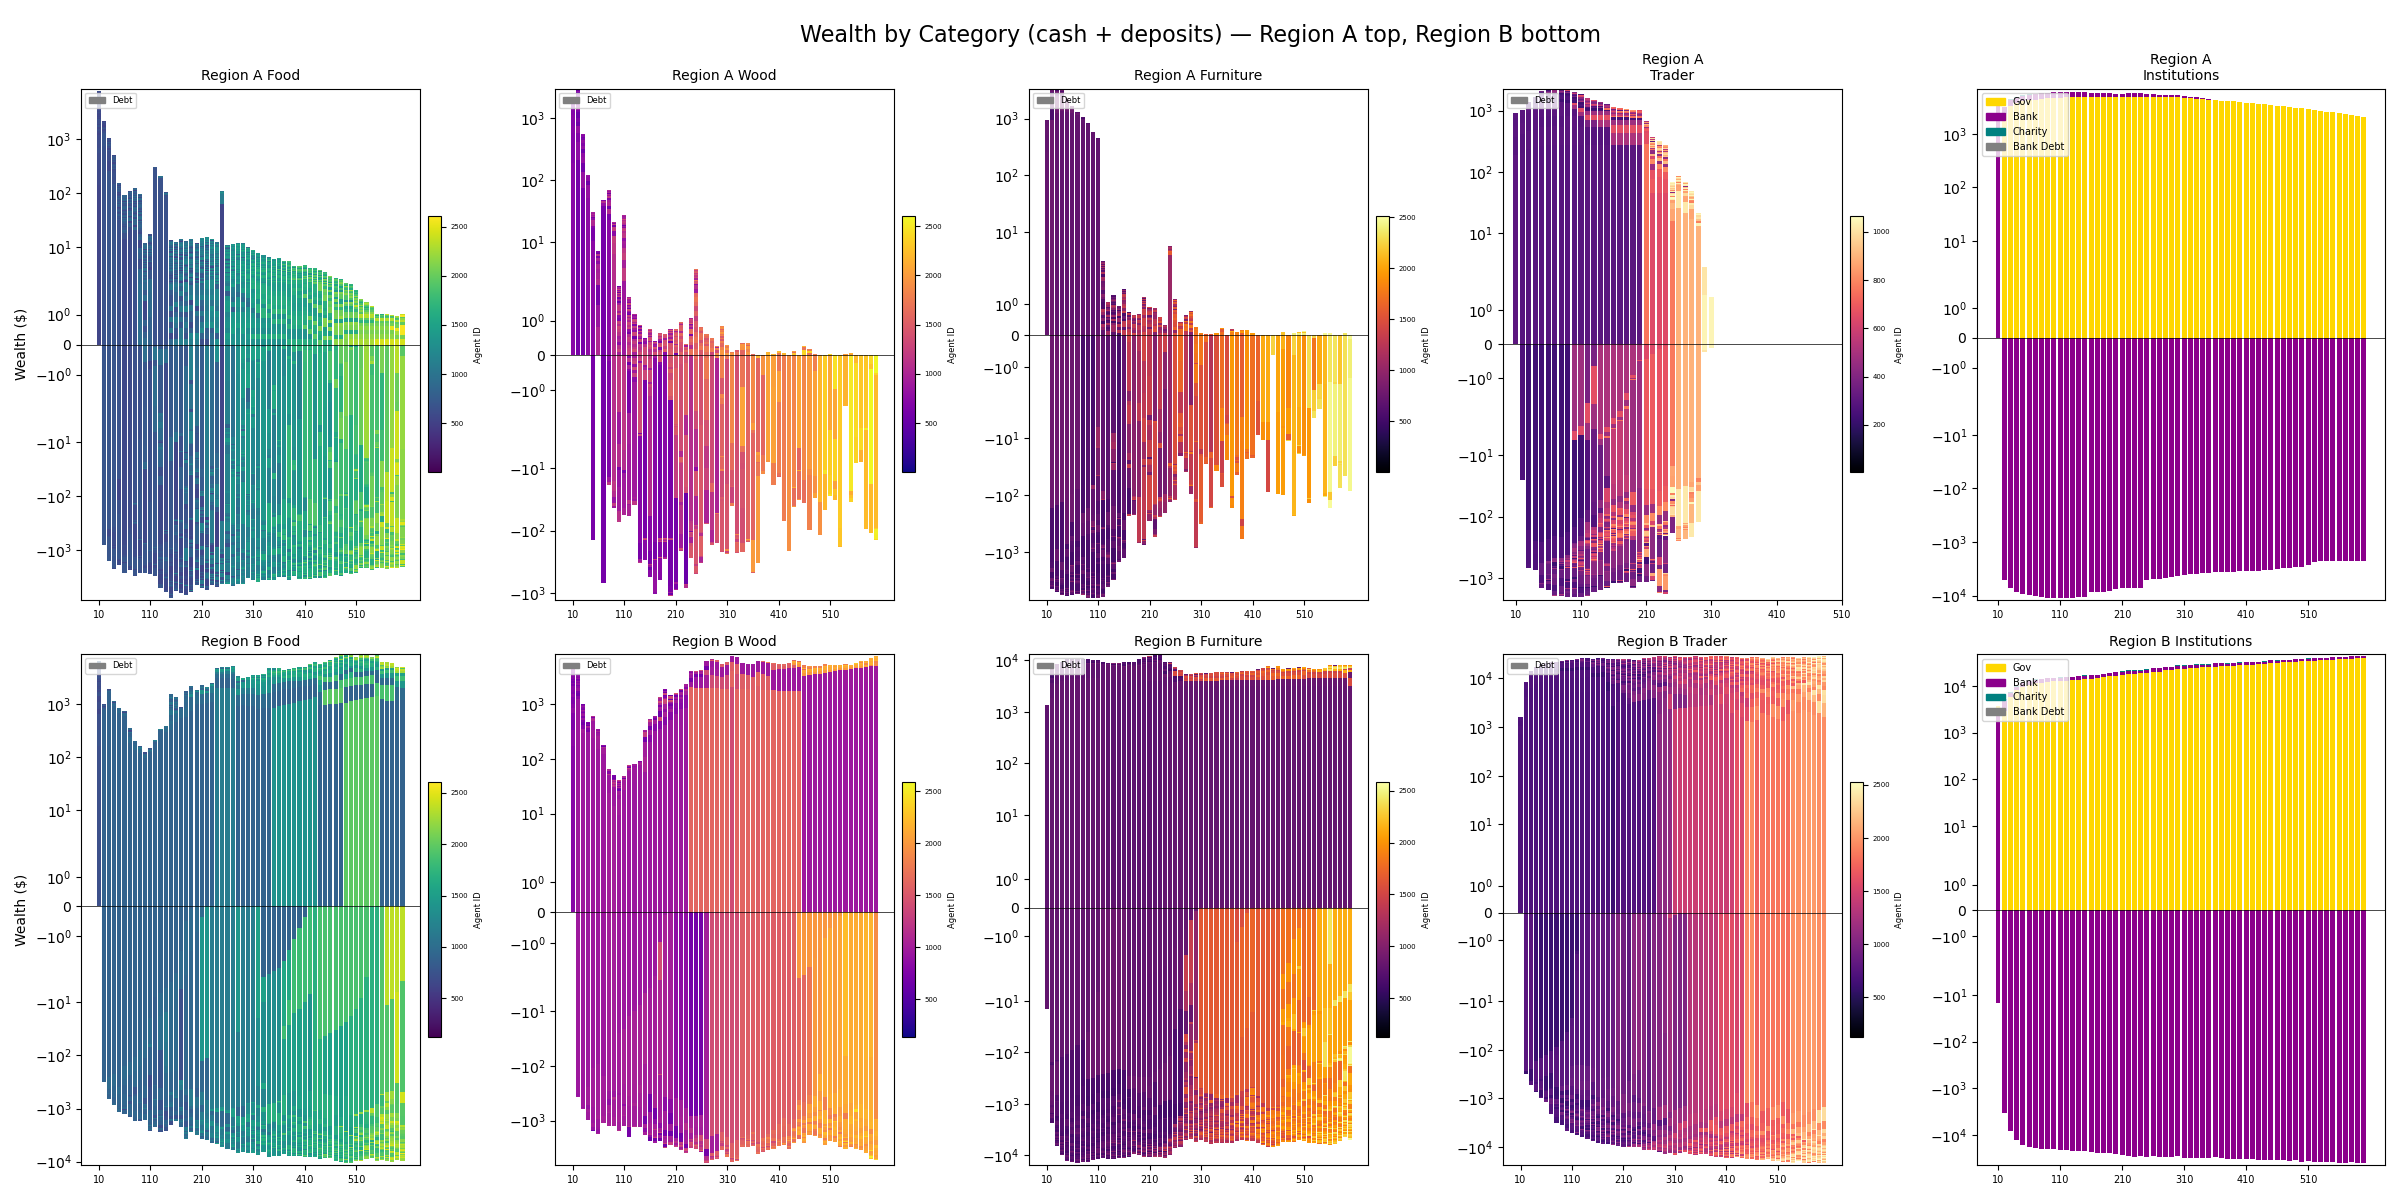
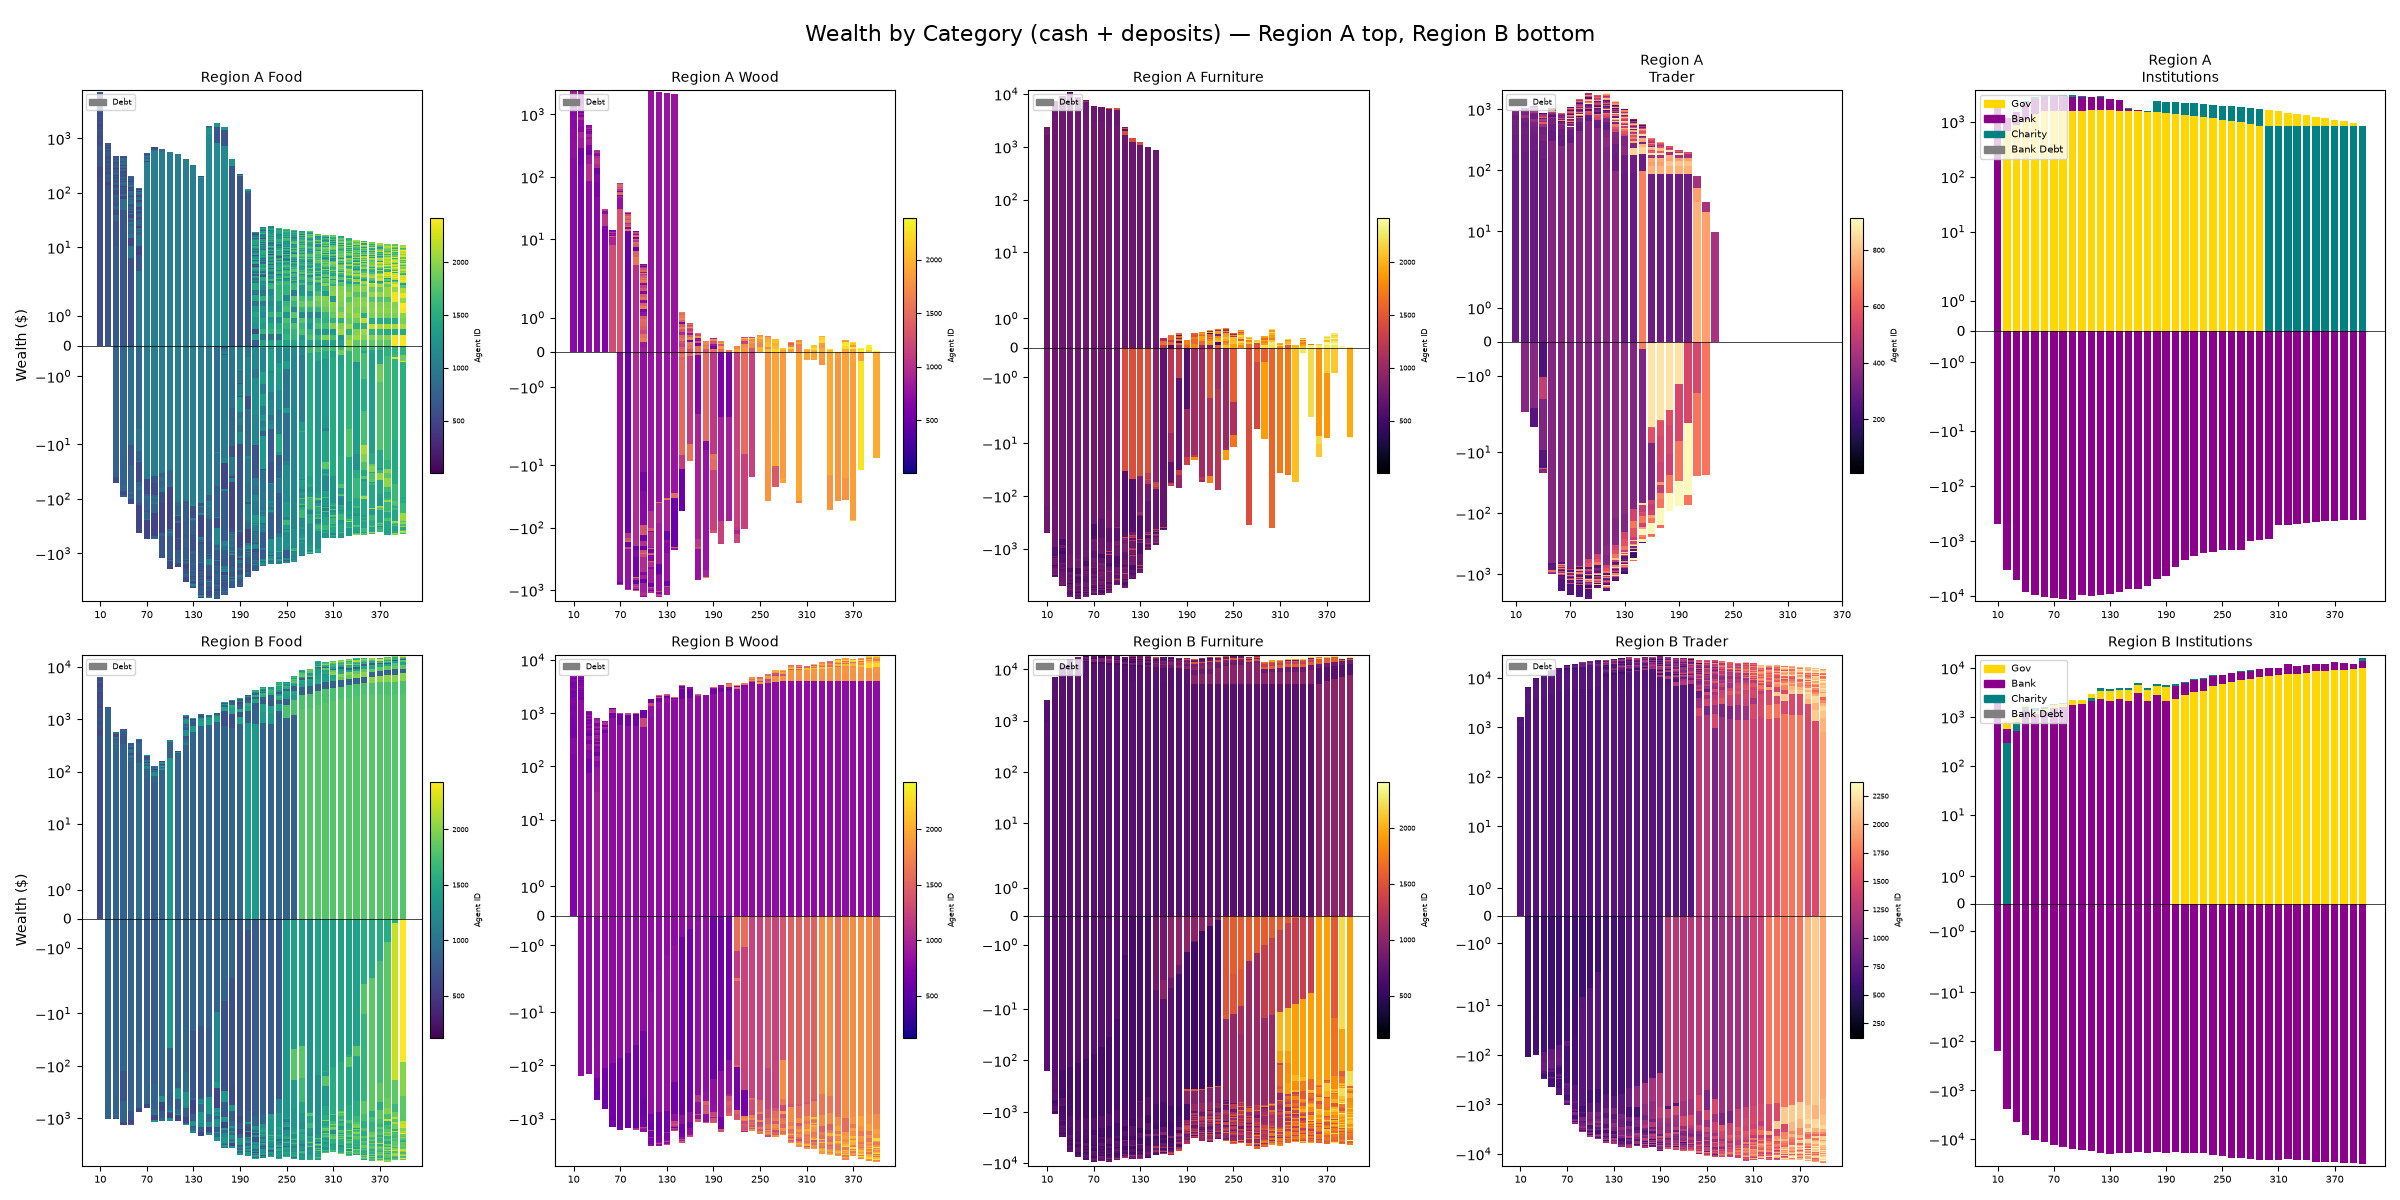
Reduce trader starvation: feed from foreign inventory, food bids, destination food purchases; invert wealth fertility
- Traders now eat from foreign/export food inventory while traveling
- Traders bid for personal food (up to 8 units) in the local market
- Traders buy food at destination using foreign-sell proceeds
- Wealthier agents reproduce LESS (inverse of old bonus), wealthy traders
  cap living children at 0-2 based on wealth tier

Result: trader starvation deaths 721 -> 0 over 500 turns, no crowding
deaths, no cash leaks

diff --git a/wealth_lineage.py b/wealth_lineage.py
@@ -29,6 +29,7 @@ pre_mortem_state = {}
 wealth_snapshots = {}
 agent_birth = {}   # aid -> birth_round
 death_turn = {}    # aid -> turn of death (if died)
+death_causes = {}  # aid -> (turn, prof_name, cause)
 
 PROF_NAMES = {
     Goods.food: 'Food',
@@ -50,6 +51,34 @@ PROF_ORDER = ['Food', 'Wood', 'Furniture', 'Trader', 'Corp', 'Gov', '?']
 # Instrumentation (monkey-patches)
 # =============================================================================
 
+def _prof_name(agent):
+    """Human-readable profession name for an agent."""
+    if getattr(agent, 'is_trader', False):
+        return 'Trader'
+    if getattr(agent, 'is_corporation', False):
+        return 'Corp'
+    if getattr(agent, 'is_government', False):
+        return 'Gov'
+    return PROF_NAMES.get(agent.output, str(agent.output))
+
+
+def _determine_death_cause(ctx, t, agent, agents):
+    """Classify the cause of death before _handle_death mutates the agent."""
+    if agent.hungry_steps >= ctx.starve_limit:
+        return 'Starved'
+    age = agent.age(t)
+    wealth = agent.wealth()
+    has_wealth = age < 210 and wealth > ctx.cost_of_living
+    crowded = len(agents) > ctx.carrying_capacity * 0.85
+    if has_wealth and crowded:
+        return 'Age+Wealth+Crowded'
+    if has_wealth:
+        return 'Age+Wealth'
+    if crowded:
+        return 'Age+Crowded'
+    return 'Age'
+
+
 def _patch_bank():
     import econsim_trade_money as _tm
     orig_borrow = _tm.Bank.Borrow
@@ -66,8 +95,6 @@ def _patch_lifecycle():
 
     orig_death = _lm._handle_death
     def patched_death(ctx, t, agent, agents):
-        # Record death turn for lifespan chart
-        death_turn[agent.id] = t
         wealth = agent.cash + ctx.bank.deposits.get(agent, 0)
         debt = sum(l.principle - l.principle_paid for l in agent.loans) if agent.loans else 0
         total_val = wealth + sum(
@@ -75,7 +102,12 @@ def _patch_lifecycle():
             for g in [Goods.food, Goods.wood, Goods.furniture]
         ) - debt
         pre_mortem_state[agent.id] = {'total': total_val, 'wealth': wealth, 'debt': debt}
-        return orig_death(ctx, t, agent, agents)
+        cause = _determine_death_cause(ctx, t, agent, agents)
+        result = orig_death(ctx, t, agent, agents)
+        if result:
+            death_turn[agent.id] = t
+            death_causes[agent.id] = (t, _prof_name(agent), cause)
+        return result
     _lm._handle_death = patched_death
 
     orig_wealth = _lm._handle_wealth_inheritance
@@ -86,11 +118,7 @@ def _patch_lifecycle():
         total_val = state.get('total', 0)
         heir_ids = [d.id for d in living_descendants]
         went_to_gov = (len(living_descendants) == 0 and ctx.default_gov is not None)
-        output = agent.output
-        if getattr(agent, 'is_trader', False): prof_name = 'Trader'
-        elif getattr(agent, 'is_corporation', False): prof_name = 'Corp'
-        elif getattr(agent, 'is_government', False): prof_name = 'Gov'
-        else: prof_name = PROF_NAMES.get(output, str(output))
+        prof_name = _prof_name(agent)
         inheritance_events.append((
             t, agent.id, prof_name, total_val,
             wealth_val, debt_val, heir_ids, went_to_gov,
@@ -393,6 +421,24 @@ def main():
         print(f"\nCould not generate plots: {e}")
         import traceback
         traceback.print_exc()
+
+    # =========================================================================
+    # DEATH CAUSES BY PROFESSION
+    # =========================================================================
+    print(f"\n--- Death Causes by Profession ({time_steps} turns) ---")
+    causes = ['Starved', 'Age', 'Age+Wealth', 'Age+Crowded', 'Age+Wealth+Crowded']
+    profs = sorted({p for _, p, _ in death_causes.values()})
+    header = (" " * 12) + "".join(f"{c:>18}" for c in causes) + f"{'Total':>8}"
+    print(header)
+    for prof in profs:
+        row = f"{prof:>12}"
+        total = 0
+        for c in causes:
+            n = sum(1 for _, p, cc in death_causes.values() if p == prof and cc == c)
+            row += f"{n:>18}"
+            total += n
+        row += f"{total:>8}"
+        print(row)
 
 
 if __name__ == "__main__":

diff --git a/econsim_live.py b/econsim_live.py
@@ -215,6 +215,19 @@ def _consume_daily_food(agent):
         agent.hungry_steps = 0
     else:
         agent.inv_set(Goods.food, 0)
+        # Traders tap into foreign/export food inventory (they travel and
+        # carry wares across regions — food is eaten en route).
+        if agent.is_trader:
+            foreign_food = agent.inventory_foreign[Goods.food.value]
+            if foreign_food >= 4:
+                agent.inventory_foreign[Goods.food.value] -= 4
+                agent.hungry_steps = 0
+                return
+            export_food = agent.inventory_export[Goods.food.value]
+            if export_food >= 4:
+                agent.inventory_export[Goods.food.value] -= 4
+                agent.hungry_steps = 0
+                return
         agent.hungry_steps += 1
 
 
@@ -321,8 +334,10 @@ def _handle_job_seeking(t, agent, employer_cache):
 def _handle_reproduction(ctx: LiveContext, t, agent, agents, new_agents):
     """Handle birth of new agents.
 
-    Wealthy agents reproduce more (up to 5x base rate), reflecting better
-    nutrition, access to childcare, and social stability.
+    Wealthier agents reproduce LESS (inverse of the old wealth bonus): the
+    wealthy face opportunity costs — they invest in careers, trade, and
+    business rather than large families.  Wealthy traders additionally cap
+    their number of living children.
     """
     number_food_consumed = 0
     if agent.hungry_steps > 0:
@@ -333,14 +348,26 @@ def _handle_reproduction(ctx: LiveContext, t, agent, agents, new_agents):
     if government is not None:
         birth_prob *= government.get_fertility_multiplier()
 
-    # Wealth-based fertility bonus: richer agents reproduce more
+    # Wealth-based fertility reduction: richer agents reproduce less.
+    # At 1x cost of living: ~0.77x base rate; at 10x: ~0.25x base rate.
     cost_of_living = ctx.cost_of_living
     wealth = agent.wealth()
     if wealth > cost_of_living:
-        # Scale: at 10x cost_of_living, birth rate is 4x base
-        wealth_factor = 1.0 + (wealth / cost_of_living) * 0.3
-        wealth_factor = min(5.0, wealth_factor)
+        wealth_factor = 1.0 / (1.0 + (wealth / cost_of_living) * 0.3)
+        wealth_factor = max(0.25, wealth_factor)
         birth_prob *= wealth_factor
+        # Wealthy traders cap family size: they invest in their business
+        # rather than children.  Richer trader → fewer allowed children.
+        if agent.is_trader:
+            if wealth > cost_of_living * 6:
+                max_children = 0
+            elif wealth > cost_of_living * 3:
+                max_children = 1
+            else:
+                max_children = 2
+            living_children = sum(1 for d in agent.descendants if d.alive)
+            if living_children >= max_children:
+                return 0
 
     if agent.last_reproduction + ctx.birth_gap < t and rand.random() < birth_prob \
        and agent.inv_get(Goods.food, 0) >= 2:

diff --git a/econsim_two_region.py b/econsim_two_region.py
@@ -141,6 +141,32 @@ def foreign_sell(t, destination_region, source_region):
                 trade_values[good] += cash
             trader.inventory_foreign[good.value] = remaining
 
+        # Traders buy food for themselves at the destination out of sales
+        # proceeds (they are away from home and must eat from local markets).
+        if trader.inv_get(Goods.food, 0) < 8:
+            food_price = destination_region.recipes[Goods.food]['price']
+            need = 8 - trader.inv_get(Goods.food, 0)
+            afford = int(trader.cash / food_price) if food_price > 0 else 0
+            to_buy = min(need, afford)
+            if to_buy > 0:
+                sellers = [a for a in destination_region.agents
+                           if a.output == Goods.food
+                           and a.inv_get(Goods.food, 0) > 2
+                           and not getattr(a, 'is_trader', False)]
+                bought = 0
+                for seller in sellers:
+                    if bought >= to_buy:
+                        break
+                    available = seller.inv_get(Goods.food, 0) - 2
+                    if available <= 0:
+                        continue
+                    take = min(available, to_buy - bought)
+                    seller.inv_add(Goods.food, -take)
+                    seller.cash += take * food_price
+                    trader.cash -= take * food_price
+                    trader.inv_add(Goods.food, take)
+                    bought += take
+
     if total_sold_value > 0 and t % 50 == 0:
         loginfo(t, f"TRADE {source_region.name}->{destination_region.name}: "
                 f"sold {total_sold_quantity} units worth ${total_sold_value:.2f} "

diff --git a/region.py b/region.py
@@ -809,6 +809,14 @@ class Region:
 
     def _calculate_bid(self, agent, good, good_price, current_desired, agent_recipe, is_employee, mult):
         if agent.is_trader:
+            # Traders buy food for themselves (up to 2 days' supply) — they
+            # don't produce, so they must eat from the market like everyone else.
+            if good == Goods.food:
+                food_on_hand = agent.inv_get(Goods.food, 0)
+                need = max(0, 8 - food_on_hand)
+                spendable = max(0, agent.remainingCash - self.cost_of_living * 5)
+                affordable = int(spendable // good_price)
+                return min(need, affordable)
             destination = agent.destination_region
             if destination is not None:
                 # Use cached fee multiplier to check true profitability
